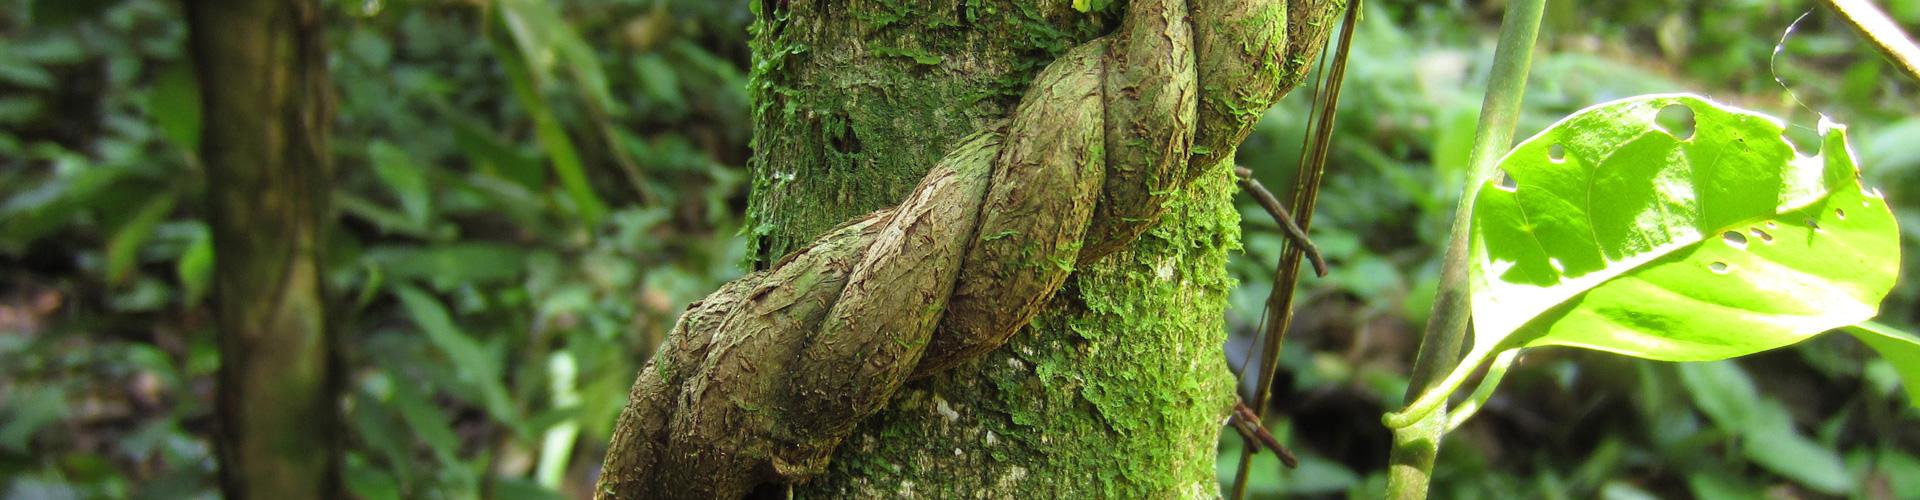
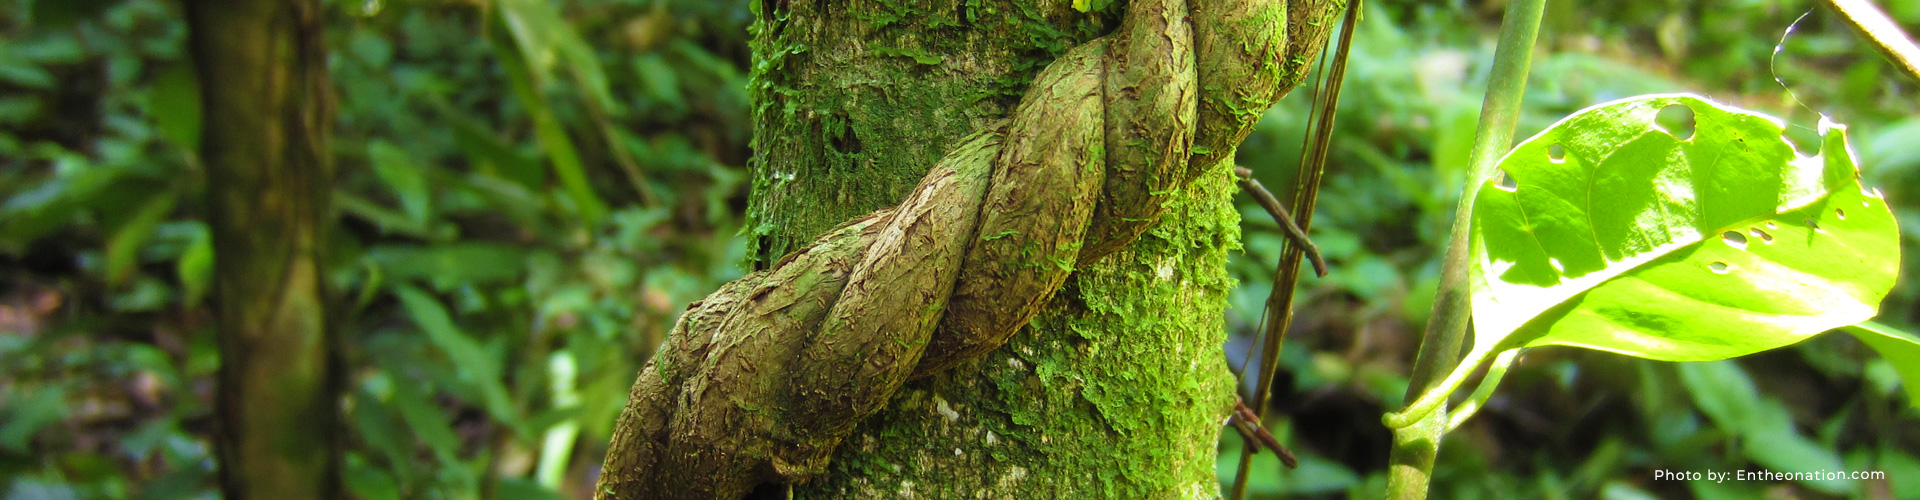
Final changes

diff --git a/ayahuasca.html b/ayahuasca.html
@@ -101,7 +101,7 @@
     <div class="news">
       <!-- <h3 class="is-size-1 has-text-centered has-text-weight-bold">New to Plant Medicine?</h3> -->
       <p class="is-size-2-desktop is-size-3-tablet is-size-4-mobile px-6 mb-1 has-text-weight-bold">An introduction to Ayahuasca</p>
-      <p class="px-6 mb-1">  by <a href="http://www.ayahuasca.com/introductions/an-introduction-to-ayahuasca/"><strong>Daniel Mirante</strong></a><time class="is-size-7 px-2" datetime="2021-5-6">13 May 2021 • Photo: Dreamstime</time></p>
+      <p class="px-6 mb-1">  by <a href="http://www.ayahuasca.com/introductions/an-introduction-to-ayahuasca/"><strong>Daniel Mirante</strong></a><time class="is-size-7 px-2" datetime="2021-5-6">13 May 2021 • Photo: Entheonation</time></p>
       
   
 
@@ -118,14 +118,13 @@
   <!-- AddToAny END -->
         
 
-      <div class="buttons pt-3">
+      <!-- <div class="buttons pt-3">
         <button class="btn"><a href="http://nicoleandujar.com/what-is-ayahuasca.pdf">Download PDF</a></button></div>
-</div>
+</div> -->
   
-<BR>
 
 
-      <p class="px-6"><strong> Ayahuasca </strong>is an Amazonian plant medicine that has been used in a sacred context by indigenous and mestizo healers in Peru, 
+      <p><strong> Ayahuasca </strong>is an Amazonian plant medicine that has been used in a sacred context by indigenous and mestizo healers in Peru, 
       Colombia, Ecuador and Brazil for hundreds, and possibly thousands, of years. Made from the mixture of 2 (or more) p
       lants found in the Amazon jungle–the ayahuasca vine (<em>Banisteriopsis caapi</em>), and the chacruna leaf (<em>Psychotria viridis</em>), 
       which contains the powerful psychoactive dimethyletryptamine (DMT), it is a brew capable of inducing altered states of consciousness. 
@@ -136,55 +135,55 @@
       <img class="mainimg" src="images/abuela.jpg" alt="Visionary Painting by Alfredo Zagaceta" justify="center"></p>
       <figcaption>Visions. Painting by <a href="https://www.instagram.com/alfredozagaceta/">Alfredo Zagaceta</a></figcaption></figure>
 
-      <p class="px-6"><strong>Ayahuasca</strong> (aya-spirit/dead, waska-vine/rope) or Yage (ya-hey) are native Amazonian names for the jungle vine Banisteriopsis Caapi, and the 
+      <p><strong>Ayahuasca</strong> (aya-spirit/dead, waska-vine/rope) or Yage (ya-hey) are native Amazonian names for the jungle vine Banisteriopsis Caapi, and the 
       medicinal tea prepared from it. Ayahuasca is used throughout the Upper Amazon to enable access to the visionary or mythological world and for physical, 
       mental and spiritual healing.
 
-      <p class="px-6 has-text-weight-bold">Constituents</p>
+      <p class="has-text-weight-bold">Constituents</p>
 
-      <p class="px-6">The <em> Banisteriopsis caapi</em> vine is a <em> malpighiaceous</em> jungle liana found in the tropical regions of Peru, Bolivia, Panama, Brazil, the Orinoco 
+      <p>The <em> Banisteriopsis caapi</em> vine is a <em> malpighiaceous</em> jungle liana found in the tropical regions of Peru, Bolivia, Panama, Brazil, the Orinoco 
       of Venezuela and the Pacific Coast of Colombia/Ecuador. The vine is the common base ingredient of the Ayahuasca tea. <em> B. caapi</em> contains beta-carbolines 
       that exhibit sedative, hypnotic, anti-depressant, monoamine oxidase inhibiting, and threshold visionary activity.
 
       <blockquote>"Ayahuasca is a synergystic potion." </blockquote>
 
-      <p class="px-6"> A wide variety of admixture plants is used by the indigenous tribes of the Upper Amazon. Vine-only brew is sometimes 
+      <p> A wide variety of admixture plants is used by the indigenous tribes of the Upper Amazon. Vine-only brew is sometimes 
       used. Most typically the vine is mixed with a tryptamine carrying plant. The foliage of <em> Psychotria viridis </em>(Chacruna) is the principal admixture of Ayahuasca          
       potions employed throughout Peru and Brazil. In Colombia and Amazonian Ecuador, the plant <em> Diplopterys cabrerana </em> (Chaliponga) is often used instead.</p>
 
-      <p class="px-6">  These plants provide the “light” or the visionary qualities, but these tryptamine-containing plants are not orally active alone. The monoamine oxidase 
+      <p>  These plants provide the “light” or the visionary qualities, but these tryptamine-containing plants are not orally active alone. The monoamine oxidase 
       inhibiting action of the B. caapi vine makes it possible for the tryptamines to produce powerful visions. In turn, the admixture plants potentiate the Vine.</p>
 
-      <p class="px-6">  The combination of the Caapi vine with Chacruna or Chaliponga is sometimes known as a marriage of Power and Light. This marriage unlocks the full shamanic 
+      <p>  The combination of the Caapi vine with Chacruna or Chaliponga is sometimes known as a marriage of Power and Light. This marriage unlocks the full shamanic 
       mareación and its visionary mythological vistas.</p>
 
-      <p class="px-6">  This medicine has been used for millennia in order to enter the sacred supernatural world, to heal, divine, and gain insight into nature and spirit.</p>
+      <p>  This medicine has been used for millennia in order to enter the sacred supernatural world, to heal, divine, and gain insight into nature and spirit.</p>
 
-      <p class="px-6 has-text-weight-bold">Antiquity</p>
+      <p class=" has-text-weight-bold">Antiquity</p>
 
-      <p class="px-6">The use of Ayahuasca may well be primordial, its use extending back to the earliest aboriginal inhabitants of the Upper Amazon region. Abstract liminal 
+      <p>The use of Ayahuasca may well be primordial, its use extending back to the earliest aboriginal inhabitants of the Upper Amazon region. Abstract liminal 
       patterns such as zigzags, serrated lines and geometric forms found on ancient relics and traditional textiles, pottery and body art of various tribes represent the perceptual threshold between everyday and transpersonal realms of consciousness. These relics, combined with an abundance of myths describing the origin of Ayahuasca as deeply intertwined cosmologically with the creation of the universe, earth, and tribal people, indicate a long history of human use.
 
-      <p class="px-6"> Ayahuasca is a revered and respected sacred medicine, considered a spiritual and physiological panacea par excellence, because its medicine can instruct 
+      <p> Ayahuasca is a revered and respected sacred medicine, considered a spiritual and physiological panacea par excellence, because its medicine can instruct 
       in healing, visionary insight, and the art of using plants for various purposes. Sometimes it is referred to simply as la Medicina – the Medicine.</p>
 
-      <p class="px-6">For indigenous people such as the Napo Runa of Ecuador, Ayahuasca is “the mother of all medicines” and “the mother of all plants.” Other peoples regard 
+      <p>For indigenous people such as the Napo Runa of Ecuador, Ayahuasca is “the mother of all medicines” and “the mother of all plants.” Other peoples regard 
       Ayahuasca as a Grandfather or Grandmother. Ayahuasca, “the Vine with a soul,” is perceived as a communicating being who guides, teaches, and heals. 
       Ayahuasca also acts as a mediator and translator between the human and plant worlds, and teaches humans how to communicate with plants and use them for 
       various purposes.</p>
 
-      <p class="px-6 has-text-weight-bold">Modern use</p>
+      <p class="has-text-weight-bold">Modern use</p>
 
-      <p class="px-6">In modern times, many new Ayahuasca traditions have continued to grow like the spreading tendrils of the Vine. Ayahuasca seems to adapt itself 
+      <p>In modern times, many new Ayahuasca traditions have continued to grow like the spreading tendrils of the Vine. Ayahuasca seems to adapt itself 
       to the needs and intents of those who use it the way the vine adapts its form to the shape of the tree on which it grows.
       </p>
-      <p class="px-6">At the turn of the twentieth century, during the Rubber Boom, mestizo rubber tappers entered Amazonia. Because rubber had to be harvested from wild, 
+      <p>At the turn of the twentieth century, during the Rubber Boom, mestizo rubber tappers entered Amazonia. Because rubber had to be harvested from wild, 
       separated trees, these men worked mostly alone in the forest. (Many Indians were brutally enslaved by rubber companies as well, but that is another story.) When these mestizos fell ill, they had to turn to Indian curanderos. Some of them ended up apprenticing to the curanderos and learning the Ayahuasca practices. In other cases, mestizo rubber tappers were kidnapped by Indians and lived several years with them.
       </p> 
-      <p class="px-6">From that, as the mestizo cities of Iquitos and Pucallpa grew, so did a mestizo Ayahuasca tradition that blended indigenous Ayahuasca practices with some 
+      <p>From that, as the mestizo cities of Iquitos and Pucallpa grew, so did a mestizo Ayahuasca tradition that blended indigenous Ayahuasca practices with some 
       Catholic worldview.
       </p>
-      <p class="px-6">The next branch of new Ayahuasca tradition also came from a rubber tapper. The Afro-Brazilian Raimundo Irineu started Santo Daime, a church that blends 
+      <p>The next branch of new Ayahuasca tradition also came from a rubber tapper. The Afro-Brazilian Raimundo Irineu started Santo Daime, a church that blends 
       African traditions with esoteric Christianity and Ayahuasca. Santo Daime replaces the older practice of individual shamanism with a kind of group shamanism, 
       in which an entire group of people can perform healings collectively.
 
@@ -196,27 +195,27 @@
       <figcaption>Ayahyasca vine in the jungle</figcaption></figure>
       </div>
 
-      <p class="px-6"> Other syncretic Ayahuasca churches followed, such as the Centro Espírita Beneficente União do Vegetal (UDV) and Barquinha in Brazil and Soga del Alma in Peru. 
+      <p> Other syncretic Ayahuasca churches followed, such as the Centro Espírita Beneficente União do Vegetal (UDV) and Barquinha in Brazil and Soga del Alma in Peru. 
       Santo Daime and UDV have become international, with meetings in many countries in the world.
       </p>
-      <p class="px-6"> There are also syncretic movements with Sufism (Fatimiya Sufi Order), Gnosticism (Gnostisismo Revolutionario de la Concienca de Krishna, based in Colombia), 
+      <p> There are also syncretic movements with Sufism (Fatimiya Sufi Order), Gnosticism (Gnostisismo Revolutionario de la Concienca de Krishna, based in Colombia), 
       Sikhism, and Wicca (Padeva). New syncretic movements will undoubtedly continue to appear.
       </p>
-      <p class="px-6">Another syncretic movement is between Ayahuasca shamanism and western psychotherapy. The most famous center for this is Takiwasi, a treatment center for drug 
+      <p>Another syncretic movement is between Ayahuasca shamanism and western psychotherapy. The most famous center for this is Takiwasi, a treatment center for drug 
       addiction in Tarapoto, Peru, in which Ayahuasca shamans and western psychotherapists work together using Ayahuasca to help treat addicts of cocaine and other drugs.</p>
       </p>
-      <p class="px-6">Yet another Ayahuasca tradition, which began in the 1980s but became stronger in the late 1990s, is that of the western psychedelics tradition. Within this 
+      <p>Yet another Ayahuasca tradition, which began in the 1980s but became stronger in the late 1990s, is that of the western psychedelics tradition. Within this 
       tradition, a custom started of using the word “ayahuasca” to mean any combination of MAOI and DMT, because the chemical action on the brain was what mattered. 
       Their perspective was that Ayahuasca was simply an orally active form of DMT, the B. caapi vine was merely the potentiator of the DMT, and that any combination 
       of plants, or even of pharmaceuticals and laboratory chemicals, that similarly resulted in orally active DMT was basically the same as Ayahuasca. Within the 
       western psychedelic tradition, the term “ayahuasca” is often used to refer to a brew made of Peganum harmala and a DMT source, typically Mimosa hostilis.
       </p>
-      <p class="px-6"> Since some in the western psychedelic movement are serious spiritual seekers, within the western psychedelic movement has developed a tradition of using 
+      <p> Since some in the western psychedelic movement are serious spiritual seekers, within the western psychedelic movement has developed a tradition of using 
       Ayahuasca primarily for mystical experiences, and for that purpose Ayahuasca and Mimosa/Rue can both serve — they can both be good catalysts for profound cosmic 
       mystical experiences — as can many other Plant Teachers. But they are each distinct Teachers, each with its own distinct personality, each to be be respected 
       for itself.
       </p>
-      <p class="px-6">A new Ayahuasca syncretic tradition is developing via what is known as “Ayahuasca tourism.” Individuals from industrialized countries are traveling to South 
+      <p>A new Ayahuasca syncretic tradition is developing via what is known as “Ayahuasca tourism.” Individuals from industrialized countries are traveling to South 
       America to drink Ayahuasca with Amazonian healers, and Amazonian healers are learning to adapt their healing traditions to the needs of patients from the 
       western world. This is creating a new syncretism, because, just as mestizo curanderismo adapted to the issues of mestizo people, the needs, issues, and 
       quests of people from industrialized countries are deeply different from kinds of problems and illnesses that Amazonian indigenous and mestizo curanderos 
@@ -224,44 +223,44 @@
       are creating retreats specifically geared to foreigners (often in partnership with foreigners) and many of these have web sites.</p>
       </p>
 
-      <p class="px-6">The Ayahuasca tourism industry is centered in Iquitos, Peru, and to a lesser extent Pucallpa. </p>
+      <p>The Ayahuasca tourism industry is centered in Iquitos, Peru, and to a lesser extent Pucallpa. </p>
 
       <blockquote> Traditional healers in the Amazon, both indigenous and mestizo, charge for their services; reciprocation is important in Amazonian and 
       Andean culture, and in the Amazonian world one’s willingness to offer something of 
       value communicates the seriousness of one’s intent to the spirits. </blockquote>
 
-      <p class="px-6">Needless to say, since foreigners represent money, there are increasing numbers of 
+      <p>Needless to say, since foreigners represent money, there are increasing numbers of 
       charlatans in these regions who represent themselves as trained shamans and offer Ayahuasca to tourists. These individuals can copy the outward forms of 
       ceremonies they have witnessed, but in the Amazon a real shaman, or curandero, or vegetalista, or yachak, or paye, or paqo, has undergone highly disciplined 
       training. People considering visiting these regions to drink Ayahuasca are encouraged to do research and educate themselves first.
       </p>
-      <p class="px-6">Individuals who want less touristic, gringo-oriented settings, who want to share Ayahuasca in the context of real life of Amazonian people, may go to other 
+      <p">Individuals who want less touristic, gringo-oriented settings, who want to share Ayahuasca in the context of real life of Amazonian people, may go to other 
       regions, including Colombia, Ecuador, or other parts of Peru. Indigenous as well as mestizo people are very open about sharing Ayahuasca (but payment is 
       expected in return). By sharing Ayahuasca with foreigners, the Indians gain allies, because Ayahuasca drunk in the rainforest frequently converts the drinker 
       into a passionate defender of the rainforest. (Indeed, Ayahuasca may have something to do with why the Amazon rainforest has become a passionate international 
       cause in the past couple of decades.)
       </p>
-      <blockquote class="px-6">"Sometimes Amazonian healers actually take on western apprentices and train them in their ancient practices."</blockquote>
+      <blockquote>"Sometimes Amazonian healers actually take on western apprentices and train them in their ancient practices."</blockquote>
 
-      <p class="px-6">These western apprentices — who may remain in South America helping to run Ayahuasca retreats, or who may bring their healing practices 
+      <p>These western apprentices — who may remain in South America helping to run Ayahuasca retreats, or who may bring their healing practices 
       back to their own countries, and who may blend their ayahuasquero training with other training they have had — may be considered part of the 
       broader “neo-shamanic” movement, a movement to adapt shamanism to the needs and problems of the industrialized world.</p>
 
-      <p class="px-6 has-text-weight-bold">Legality</p>
+      <p class=" has-text-weight-bold">Legality</p>
 
-      <p class="px-6">No plants (natural materials) containing DMT are at present controlled under the United Nations 1971 Convention on Psychotropic Substances. 
+      <p>No plants (natural materials) containing DMT are at present controlled under the United Nations 1971 Convention on Psychotropic Substances. 
       Consequently, preparations (e.g.decoctions) made of these plants, including Ayahuasca are not under international control and, therefore, not subject 
       to any of the articles of the 1971 Convention. </p>
-      <p class="px-6"><a href="http://www.erowid.org/chemicals/ayahuasca/ayahuasca_law.shtml"> <strong>Read more here </strong></a></p>
+      <p><a href="http://www.erowid.org/chemicals/ayahuasca/ayahuasca_law.shtml"> <strong>Read more here </strong></a></p>
       </p>            
-      <p class="px-6">In Brazil, a protracted legal battle in the 1980’s ended with the Brazilian government finding Ayahuasca churches use of Ayahuasca was safe and showed 
+      <p>In Brazil, a protracted legal battle in the 1980’s ended with the Brazilian government finding Ayahuasca churches use of Ayahuasca was safe and showed 
       no signs of harming the members. In 1992, Brazil formally legalized the constituent plants and Ayahuasca tea.</p>
       </p>
-      <p class="px-6">In the United States, the plants that are used to make Ayahuasca are legal. However, the chemical N,N-dimethyltryptamine (DMT), which is contained in the 
+      <p>In the United States, the plants that are used to make Ayahuasca are legal. However, the chemical N,N-dimethyltryptamine (DMT), which is contained in the 
       admixture plants, is a controlled substance. While it is not illegal to possess or sell plants containing DMT, processing, preparing, or having the intent 
       to prepare for consumption would be considered illegal. However, brewing Ayahuasca with the B. caapi vine alone would be completely legal in the United States.
       </p>
-      <p class="px-6">In Canada, harmaline (contained in the B. caapi vine) is a Schedule III controlled substance, therefore Ayahuasca brews may violate the law
+      <p>In Canada, harmaline (contained in the B. caapi vine) is a Schedule III controlled substance, therefore Ayahuasca brews may violate the law
       </p>
 
       <div class="columns is-multiline" > 
@@ -271,70 +270,70 @@
       <figcaption>Images from an ayahuasca ceremony</figcaption></figure>
       </div>
 
-      <p class="px-6">In 2005, France added Banisteriopsiis caapi, Peganum harmala, Psychotria viridis, Diplopterys cabrerana, Mimosa hostilis, Banisteriopsis rusbyana, 
+      <p>In 2005, France added Banisteriopsiis caapi, Peganum harmala, Psychotria viridis, Diplopterys cabrerana, Mimosa hostilis, Banisteriopsis rusbyana, 
       harmine, harmaline, tetrahydroharmine (THH), haroml, and harmalol to the list of controlled substances.
       </p>
-      <p class="px-6">In Australia, harmala is a controlled substance, but the vine is not.
+      <p>In Australia, harmala is a controlled substance, but the vine is not.
       </p>
-      <p class="px-6">The Santo Daime church has successfully established its right to use Ayahuasca for spiritual/religious purposes, first in Brazil, and then through 
+      <p>The Santo Daime church has successfully established its right to use Ayahuasca for spiritual/religious purposes, first in Brazil, and then through 
       legal battles in Netherlands and Spain. In 2006, the US Supreme Court unanimously ruled in favor of the UDV church right to use Ayahuasca in their services.
       </p>
 
-      <p class="px-6 has-text-weight-bold">Cultivation</p>
+      <p class="has-text-weight-bold">Cultivation</p>
 
-      <p class="px-6">Growing these plants will be one of the most rewarding aspects of your experience. Growing the plants yourself helps you develop a 
+      <p>Growing these plants will be one of the most rewarding aspects of your experience. Growing the plants yourself helps you develop a 
       relationship with the plants. Using an Ayahuasca brew with plants you grew deepens the experience; the plants will have gotten to know you and 
       this will emerge as a very important aspect in your journeys with Ayahuasca.
       Even growing them as companion plants can deepen your experience with the Ayahuasca brew.
 
 
-      <p class="px-6 has-text-weight-bold">Preparation</p>
+      <p class="has-text-weight-bold">Preparation</p>
 
-      <p class="px-6">Prepared Ayahuasca brew can keep its potency in storage almost indefinitely, although its taste may become more unpleasant. 
+      <p>Prepared Ayahuasca brew can keep its potency in storage almost indefinitely, although its taste may become more unpleasant. 
       The unbrewed plant material loses some potency in the original drying process, but after that remains stable for years.</p>
 
 
-      <p class="px-6 has-text-weight-bold">Safety precautions</p>
+      <p class="has-text-weight-bold">Safety precautions</p>
 
-      <p class="px-6"> Care should be taken with foods (e.g tyramine/protein containing foods) and drugs (e.g SSRI s) that have a contraindication for MAOI’s.
+      <p> Care should be taken with foods (e.g tyramine/protein containing foods) and drugs (e.g SSRI s) that have a contraindication for MAOI’s.
       </p>
-      <p class="px-6">The beta-carbolines present in Banisteriopsis caapi, primarily harmine and tetrahydroharmine, inhibit the enzyme Monoamine Oxidase and reduces 
+      <p>The beta-carbolines present in Banisteriopsis caapi, primarily harmine and tetrahydroharmine, inhibit the enzyme Monoamine Oxidase and reduces 
       the metabolism of serotonin. Due to the MAO-inhibiting action of the vine, otherwise non-orally-active tryptamines such as N-N DMT and 5-MEO DMT 
       from the admixture plants (Psychotria viridis or Diplopterys cabrerana) can reach receptor sites in the brain, unlocking the entheogenic mareacion.</p>
       </p>
       <blockquote >  This MAOI action also makes certain foods and pharmaceuticals hazardous that otherwise would not be.</blockquote>
 
-      <p class="px-6 has-text-weight-bold">Lists of foods and medications that should be avoided can be found here:</p>
-      <p class="px-6"><a href="http://www.ayahuasca.com/science/foods-and-meds-to-avoid-with-maois/"> List of foods and medications to be avoided in preparation for an ayahuasca ceremony</a></p>
-      <p class="px-6"> There are no records of fatalities from eating proscribed foods, but there are numerous reports of severe headaches.</p>
+      <p class="has-text-weight-bold">Lists of foods and medications that should be avoided can be found here:</p>
+      <p><a href="http://www.ayahuasca.com/science/foods-and-meds-to-avoid-with-maois/"> List of foods and medications to be avoided in preparation for an ayahuasca ceremony</a></p>
+      <p"> There are no records of fatalities from eating proscribed foods, but there are numerous reports of severe headaches.</p>
 
-      <p class="px-6 has-text-weight-bold"> <em> Interaction with pharmaceuticals can be much more dangerous than food interactions.</em></p>
+      <p class="has-text-weight-bold"> <em> Interaction with pharmaceuticals can be much more dangerous than food interactions.</em></p>
 
-      <p class="px-6">  Many antidepressants (eg, Paxil), tricyclics, heterocyclics, SSRI’s, migraine medication such as sumatriptan (Imitrex) amphetamines, and opiates 
+      <p>  Many antidepressants (eg, Paxil), tricyclics, heterocyclics, SSRI’s, migraine medication such as sumatriptan (Imitrex) amphetamines, and opiates 
       may also cause serious drug-drug interactions with MAOI’s — even some OTC pharmaceuticals like antihistamines, decongrestants, ephedrine and pseudoephedrine, 
       diet pills, and allergy medication can have potentially serious interaction with Ayahuasca.</p>
 
-      <p class="px-6"> If you are taking pharmaceuticals, please inform yourself about the potential for MAOI interaction before taking Ayahuasca. If you don’t find an existing 
+      <p> If you are taking pharmaceuticals, please inform yourself about the potential for MAOI interaction before taking Ayahuasca. If you don’t find an existing 
       thread about your medication on the Information forum, you are encouraged to start one.</p>
 
-      <p class="px-6">Lastly, there is a very rare and idiosyncratic reaction to caffeine and Ayahuasca in a very few individuals. While well under 1% of people have this reaction, 
+      <p>Lastly, there is a very rare and idiosyncratic reaction to caffeine and Ayahuasca in a very few individuals. While well under 1% of people have this reaction, 
       it can be life-threatening to those few to combine even a small amount of caffeine with Ayahuasca. There is evidence that this reaction may be linked to a fast metabolism or 
       a history of stimulant abuse. Until you know you are not in this category, be careful combining Ayahuasca with caffeine.</p>
 
 
-      <p class="px-6 has-text-weight-bold">Purification</p>
+      <p class="has-text-weight-bold">Purification</p>
 
-      <p class="px-6">There is another aspect to diet with Ayahuasca, the spiritual dieta. The dieta has many variations, because it is practiced in many 
+      <p>There is another aspect to diet with Ayahuasca, the spiritual dieta. The dieta has many variations, because it is practiced in many 
       cultures (practically all traditional Ayahuasca cultures have a form of dieta, which is remarkably similar across cultures that are otherwise very 
       dissimilar), and because it has various purposes: being healed, learning how to heal others, and learning how to communicate with plants. 
       A dieta can last any length of time from one day to years. In its essence it involves avoiding strongly flavored food and sexual stimulation. 
       In a western setting, it would undoubtedly include fasting from television and mass media as well. </p>
 
 
-      <p class="px-6 has-text-weight-bold">The Purge</p>
+      <p class="has-text-weight-bold">The Purge</p>
 
 
-      <p class="px-6">“When it came, it was earthshaking! ALL the filth, negativity, malice, ill will, and unforgiveness of myself, was loosed from me. 
+      <p>“When it came, it was earthshaking! ALL the filth, negativity, malice, ill will, and unforgiveness of myself, was loosed from me. 
       Image after image of all life’s unpleasantries, ill will, the dual part of my nature, that evil that is seamlessly woven into the very fabric of 
       much of this world, and pollutes, and deviates us from our true soul/self, it was all gloriously expelled over the course of 20-30 long, glorious,
       vomit saturated minutes.”</p>
@@ -342,30 +341,26 @@
       <img class="mainimg" src="images/abuela2.jpg" alt="Visionary Painting by Alfredo Zagaceta" justify="center"></p>
       <figcaption>Visions. Painting by <a href="https://www.instagram.com/alfredozagaceta/">Alfredo Zagaceta</a></figcaption></figure>
 
-      <p class="px-6">The Purge may be strong or mild, may happen several times in one session or may not happen at all, but it is a central part 
+      <p>The Purge may be strong or mild, may happen several times in one session or may not happen at all, but it is a central part 
       of the Ayahuasca There are ways to reduce the purge, but if you can learn to accept it and flow with it can actually be very enjoyable. It is a 
       release and purification. If you fight it, it will be more difficult and unpleasant. Give in to it and just go with it. Imagine all of the distractions, 
       discomfort and pain you have within you being released with each purge. Let it flow as it is supposed to. Accept it as part of the experience.
       </p>
-      <p class="px-6 has-text-weight-bold">
+      <p class="has-text-weight-bold">
       After it is all through you will feel very good, very clean and pure.</p>
 
-      <p class="px-6">
+      <p>
       The clearer ones system, the better able one is to receive and integrate spiritual energies the knowledge of Ayahuasca. 
       The concept of subtle body phlegm is an important one in Amazonian shamanism. Vegetalistas say that Ayahuasca is needed for cleansing all the 
       flemosidades (phlegm formations) that accumulate in the intestines. The flemosidades are believed to arise from environmental toxins, certain foods, 
       trauma (susto, soul loss), and moral transgressions such as ill will, etc. Analogous to blockages of chi in the meridians, or prana in the nadis, 
       flemosidades disrupt the smooth functioning of the body and mind. Clearing the flemosidades prepares the body to journey deeper into health and wisdom.
       </p> 
-      <p class="px-6 has-text-weight-bold">
+      <p class="has-text-weight-bold">
       Effects</p>
-      <p class="px-6">             
+      <p>             
       The Ayahuasca potion is a multi-levelled medicine that works on both the soma and psyche. It is very difficult to try to say exactly ‘what’ Ayahuasca 
       does or ‘how’, because it presents a profound mystery to the human psyche.
-      </p>
-      <p class="px-6">
-      Since it is for no one person to say what Ayahuasca is and what it does, this website exists as a means for explorers to exchange information 
-      and insight into this profound Medicine. </p>
       </p>
     
      

diff --git a/peyote.html b/peyote.html
@@ -102,9 +102,9 @@
       <p class="px-6 mb-1">  by <a href="https://thethirdwave.co/psychedelics/peyote/"><strong>The Third Wave</strong></a><time class="is-size-7 px-2" datetime="2021-5-6">13 May 2021 • Photo: @peyotes.mx</time></p>
       
   <!-- SHARE BUTTONS  -->
-  <div class="px-6">
+  <div>
     <!-- AddToAny SHARE BUTTONS BEGIN -->
-<div class="a2a_kit a2a_kit_size_24 a2a_default_style py-2">
+<div class="px-6 a2a_kit a2a_kit_size_24 a2a_default_style py-2">
   <a class="a2a_dd" href="https://www.addtoany.com/share"></a>
   <a class="a2a_button_facebook"></a>
   <a class="a2a_button_twitter"></a>
@@ -114,12 +114,12 @@
 <!-- AddToAny END -->
       
 
-    <div class="buttons pt-3">
+    <!-- <div class="buttons pt-3">
         <button class="btn"><a href="http://nicoleandujar.com/what-is-peyote.pdf">Download PDF</a></button>
     </div>
-</div>
+</div> -->
 
-<BR>  
+
           
     <!-- <img class="mainimg" src="images/colibri.png" alt="hummingbirtd" justify="center"></p>
     <figcaption>Hummingbird</figcaption></figure> -->

diff --git a/new-to-plants.html b/new-to-plants.html
@@ -112,10 +112,10 @@
   </div>
 
 <!-- AddToAny END -->
-
+<!-- 
       <div class="buttons px-6 pt-3">
         <button class="btn"><a href="http://nicoleandujar.com/new-to-plant-medicine.pdf">Download PDF</a></button>
-      </div>
+      </div> -->
       
 
         <p class="title px-6">Healing the Emotional, Energetic, and Spiritual Bodies: Addressing the Root Cause</p>

diff --git a/resourcelist.html b/resourcelist.html
@@ -117,7 +117,7 @@
    
       
 
-        <p class="subtitle px-6">Below are a list of resources we offer throughout the site, all in one spot.</p>
+        <p class="subtitle px-6">Below are a list of PDF downloads of articles throughout the site, all in one spot.</p>
 
         <p class="px-6">You may select to download all or just certain documents. </p>
 

diff --git a/nac.html b/nac.html
@@ -51,6 +51,7 @@
             <a class="navbar-item" href='yawanawa.html'>Yawanawa</a>
             <a class="navbar-item" href='wixarika.html'>Wixarika</a> -->
             <a class="navbar-item" href='nac.html'>Native American Church</a>
+            <a class="navbar-item" href='inipi.html'>Inipi Ceremony</a>
           </div>
         </div>
 

diff --git a/protocol.html b/protocol.html
@@ -112,9 +112,9 @@
 
    <!-- AddToAny END -->
 
-   <div class="buttons pt-3 px-6">
+   <!-- <div class="buttons pt-3 px-6">
     <button class="btn"><a href="http://nicoleandujar.com/ceremony-preparation.pdf">Download PDF</a></button>
-</div>
+</div> -->
 </div>
   
 

diff --git a/inipi.html b/inipi.html
@@ -123,7 +123,6 @@
         <button class="btn"><a href="http://nicoleandujar.com/inipi.pdf">Download PDF</a></button></div>
 </div> -->
   
-<BR>
 
 
     <p>Many indigenous people practice what is commonly referred to as a "sweatlodge" ceremony. 
